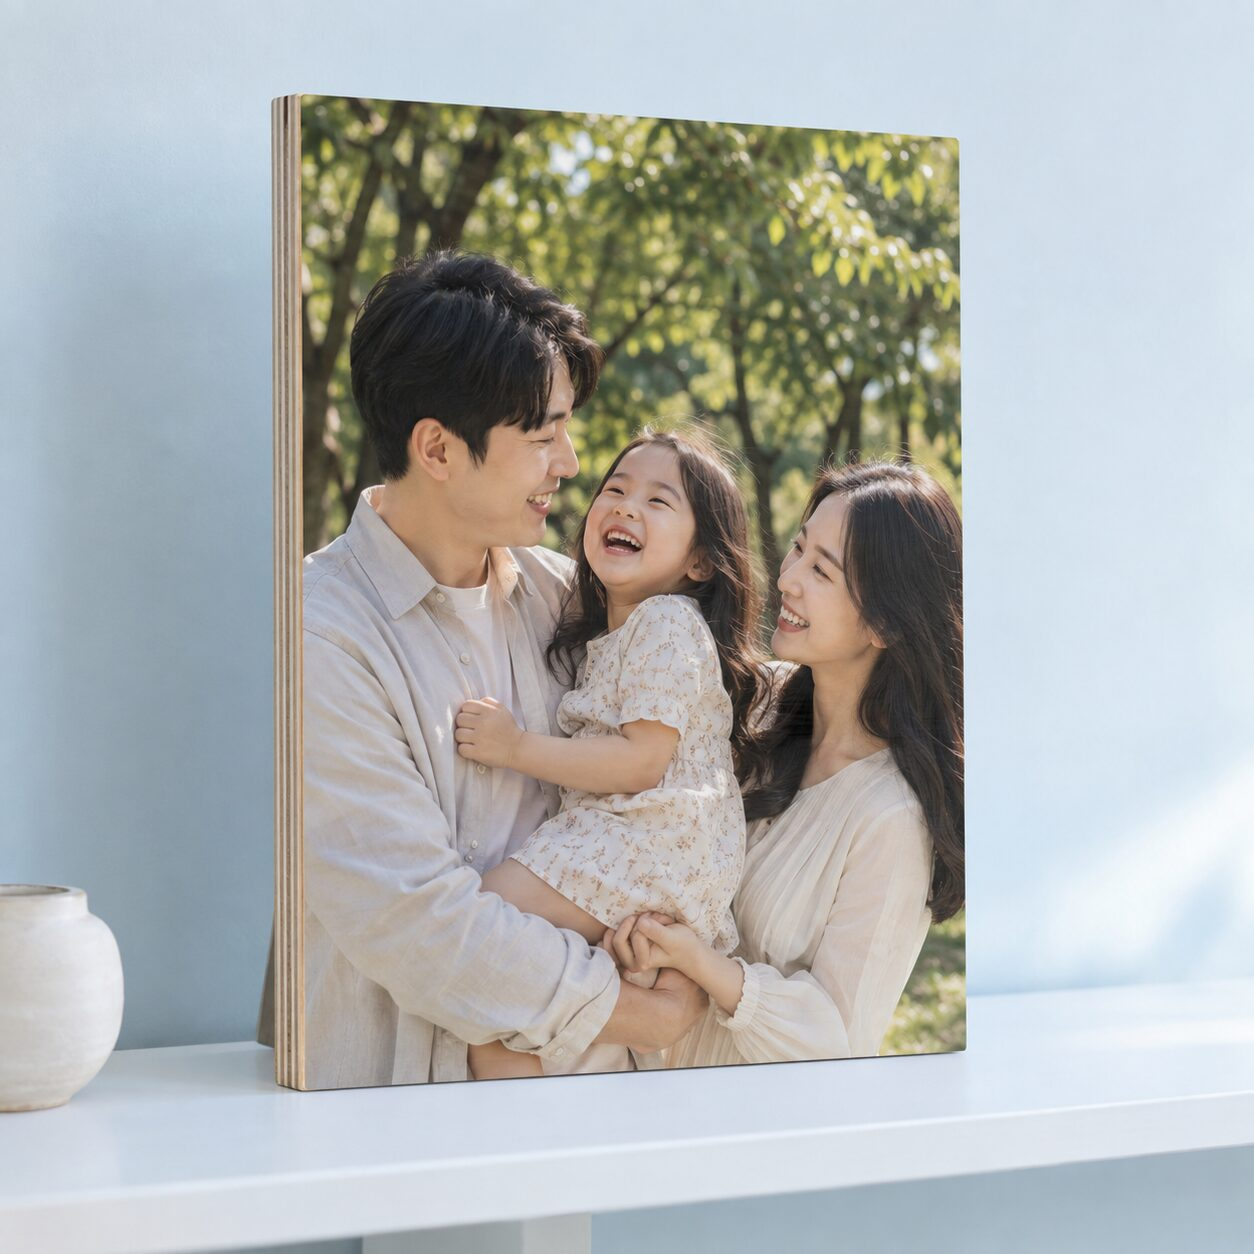
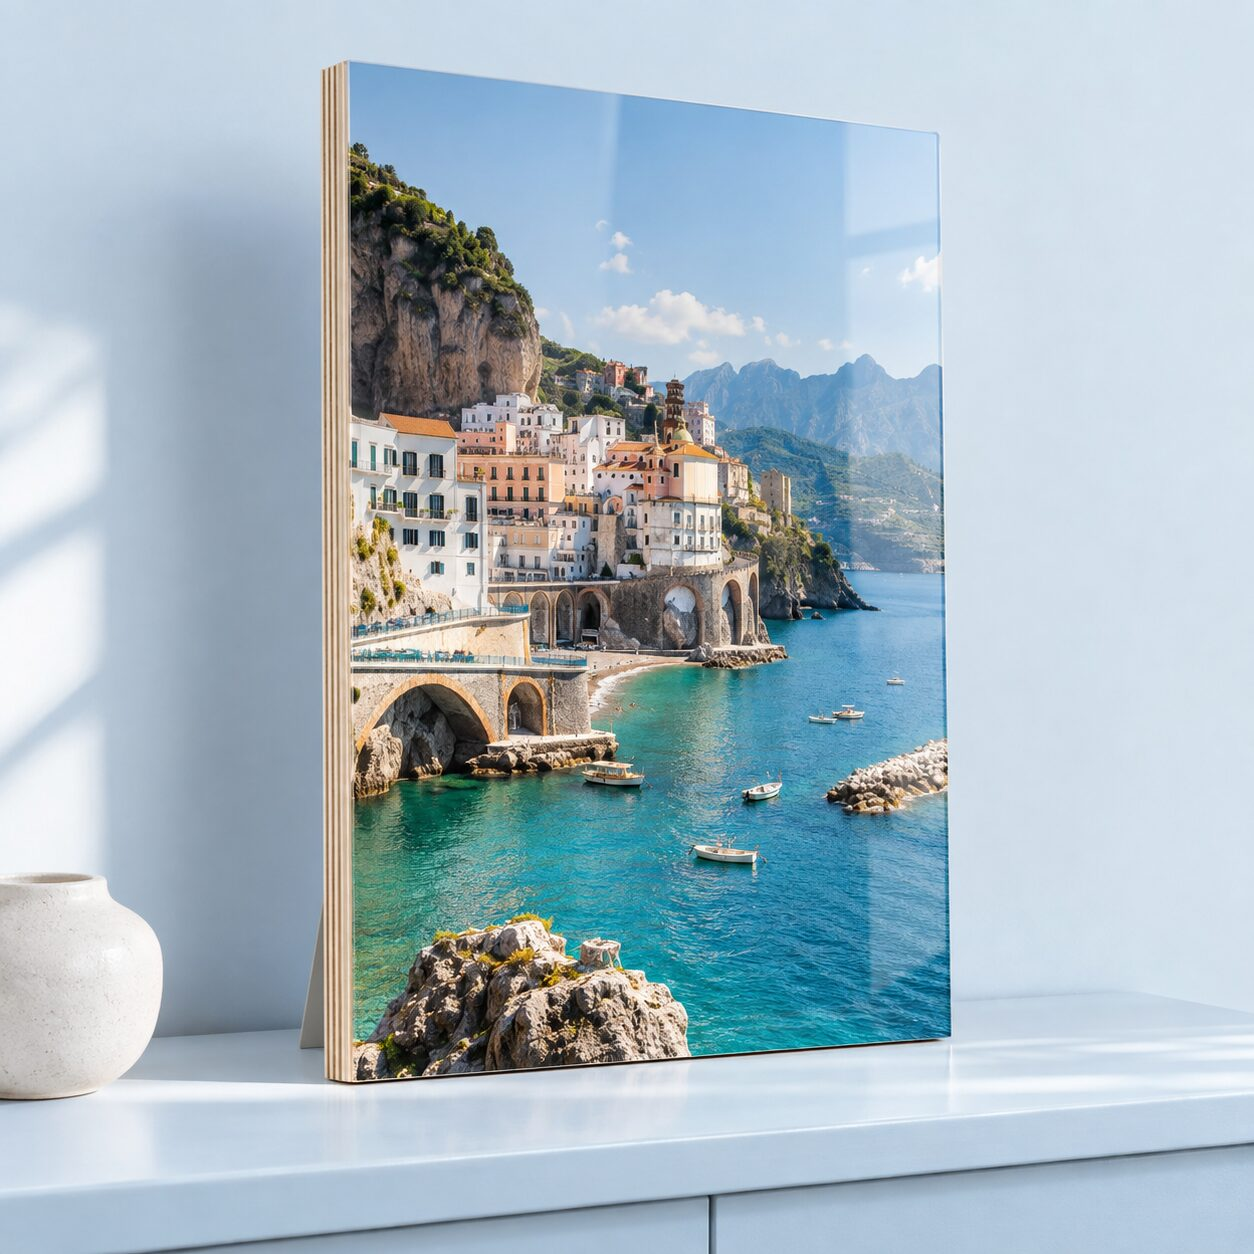
홈/옵션/액자 페이지 세부 수정 모음
- 소프트/하드커버 뱃지 색을 메인 컬러(보라+블루)로 변경
- 모바일 상품 카드 정렬 수정(오른쪽으로 치우쳐 보이던 것 수정)
- 탁상용 자작나무 유광/무광 사진 한 장씩 자리 교체(가족↔풍경)
- 포토북 옵션 페이지 "다음" 버튼 → "사진 선택하기"로 변경
- 디아섹 아크릴액자: 마감 카드를 누르면 바로 그 마감이 선택된
  옵션 페이지로 이동(하단 "보기" 버튼 삭제)
- 홈 배너 이미지 확대 + 문구 가운데 정렬(이미지와 안 겹치게)

Claude-Session: https://claude.ai/code/session_015ff75CZXsUzDxWnngCjiSU

diff --git a/app/frames/page.tsx b/app/frames/page.tsx
@@ -146,33 +146,31 @@ export default function FramesPage() {
             <Reveal
               key={group.finishLabel}
               delay={(i % 3) * 80}
-              className="overflow-hidden rounded-xl border border-[var(--color-hairline)] bg-white"
+              className="overflow-hidden rounded-xl border border-[var(--color-hairline)] bg-white transition hover:-translate-y-0.5 hover:border-[var(--color-sky)] hover:shadow-[0_10px_24px_-12px_rgba(45,55,72,0.25)]"
             >
-              <GroupPhotoSlider images={group.images} />
-              <div className="p-6">
-                <p className="font-medium">
-                  {group.finishLabel}
-                  {group.mount === "wall" && (
-                    <span className="ml-2 text-xs text-[var(--color-charcoal)]/50">벽걸이</span>
-                  )}
-                </p>
-                <p className="mt-1 break-keep text-sm text-[var(--color-charcoal)]/70">
-                  {group.sizeCount > 1
-                    ? `${group.minPrice.toLocaleString()}원 ~ ${group.maxPrice.toLocaleString()}원`
-                    : `${group.minPrice.toLocaleString()}원`}
-                </p>
-              </div>
+              <Link
+                href={`/options?product=${encodeURIComponent(
+                  "디아섹 아크릴액자"
+                )}&finish=${encodeURIComponent(group.finishLabel)}`}
+                className="block focus-visible:outline focus-visible:outline-2 focus-visible:outline-offset-2 focus-visible:outline-[var(--color-sky)]"
+              >
+                <GroupPhotoSlider images={group.images} />
+                <div className="p-6">
+                  <p className="font-medium">
+                    {group.finishLabel}
+                    {group.mount === "wall" && (
+                      <span className="ml-2 text-xs text-[var(--color-charcoal)]/50">벽걸이</span>
+                    )}
+                  </p>
+                  <p className="mt-1 break-keep text-sm text-[var(--color-charcoal)]/70">
+                    {group.sizeCount > 1
+                      ? `${group.minPrice.toLocaleString()}원 ~ ${group.maxPrice.toLocaleString()}원`
+                      : `${group.minPrice.toLocaleString()}원`}
+                  </p>
+                </div>
+              </Link>
             </Reveal>
           ))}
-        </div>
-
-        <div className="mt-8">
-          <Link
-            href={`/options?product=${encodeURIComponent("디아섹 아크릴액자")}`}
-            className="inline-block rounded-full bg-[var(--color-charcoal)] px-8 py-4 text-sm font-medium text-white transition hover:opacity-90 focus-visible:outline focus-visible:outline-2 focus-visible:outline-offset-2 focus-visible:outline-[var(--color-charcoal)]"
-          >
-            디아섹 아크릴액자 보기
-          </Link>
         </div>
       </section>
 

diff --git a/app/options/page.tsx b/app/options/page.tsx
@@ -283,7 +283,7 @@ function PhotobookOptions() {
         )}&size=${size}&quantity=${quantity}&unitPrice=${price.total}&cover=${cover}&coverCoating=${coverCoating}&innerPaper=${innerPaper}&pages=${pages}`}
         className="mt-12 block w-full rounded-full bg-[linear-gradient(135deg,var(--color-brand-purple),var(--color-sky))] px-8 py-4 text-center text-sm font-medium text-white transition hover:opacity-90 sm:inline-block sm:w-auto"
       >
-        다음
+        사진 선택하기
       </Link>
     </section>
   );
@@ -292,12 +292,23 @@ function PhotobookOptions() {
 function OtherProductOptions({ productName }: { productName: ProductName }) {
   const config = productConfig[productName];
   const isDiasec = productName === DIASEC_PRODUCT_NAME;
+  const searchParams = useSearchParams();
 
   // 디아섹 아크릴액자는 사이즈가 16개나 돼서 한 화면에 다 보여주면 복잡해요.
   // "거치방식/재질"(3개) → "마감"(2개) → "사이즈" 순으로 단계를 나눠서 골라요.
-  const [diasecGroupKey, setDiasecGroupKey] = useState(diasecGroups[0].key);
+  // /frames에서 특정 마감 카드를 눌러서 들어온 경우, finish 쿼리로 그 마감이
+  // 바로 선택된 상태로 열려요.
+  const finishParam = isDiasec ? searchParams.get("finish") : null;
+  const groupFromFinish = finishParam
+    ? diasecGroups.find((g) => g.finishLabels.includes(finishParam))
+    : undefined;
+  const [diasecGroupKey, setDiasecGroupKey] = useState(
+    groupFromFinish?.key ?? diasecGroups[0].key
+  );
   const diasecGroup = diasecGroups.find((g) => g.key === diasecGroupKey) ?? diasecGroups[0];
-  const [diasecFinishLabel, setDiasecFinishLabel] = useState(diasecGroup.finishLabels[0]);
+  const [diasecFinishLabel, setDiasecFinishLabel] = useState(
+    (groupFromFinish && finishParam) || diasecGroup.finishLabels[0]
+  );
   const diasecSizesForFinish = diasecFrameSizes.filter(
     (s) => s.finishLabel === diasecFinishLabel
   );

diff --git a/app/page.tsx b/app/page.tsx
@@ -65,6 +65,7 @@ const productGridItems: ProductGridItem[] = [
     priceFrom: photobookMinPriceByCover[cover.id],
     href: `/options?product=${encodeURIComponent("포토북")}&cover=${cover.id}`,
     badge: photobookCoverBadgeEn[cover.id],
+    badgeClassName: "bg-[linear-gradient(135deg,var(--color-brand-purple),var(--color-sky))]",
   })),
   {
     id: "frame",
@@ -198,15 +199,15 @@ export default function Home() {
               href="/options?product=포토북"
               className="relative block overflow-hidden rounded-2xl focus-visible:outline focus-visible:outline-2 focus-visible:outline-offset-2 focus-visible:outline-[var(--color-sky)]"
             >
-              <div className="aspect-[4/3] w-full sm:aspect-[21/6]">
+              <div className="aspect-[4/3] w-full overflow-hidden sm:aspect-[21/9]">
                 <img
                   src={promoBanner.image}
                   alt={promoBanner.alt}
-                  className="h-full w-full object-cover"
+                  className="h-full w-full scale-125 object-cover sm:scale-110"
                 />
               </div>
-              <div className="absolute inset-0 bg-gradient-to-r from-black/55 via-black/15 to-transparent" />
-              <div className="absolute inset-0 flex flex-col justify-center px-6 sm:px-10">
+              <div className="absolute inset-0 bg-black/40" />
+              <div className="absolute inset-0 flex flex-col items-center justify-start px-6 pt-8 text-center sm:justify-center sm:pt-0">
                 <h1 className="font-banner break-keep text-3xl leading-tight text-white sm:text-5xl">
                   {promoBanner.titleLines[0]}
                   <br />

diff --git a/components/ProductGrid.tsx b/components/ProductGrid.tsx
@@ -19,6 +19,8 @@ export type ProductGridItem = {
   href: string;
   // 이미지 위 오른쪽 아래에 작게 붙는 뱃지(예: "NEW", "Soft cover")
   badge?: string;
+  // 뱃지 배경색을 기본 검정 대신 다르게 쓰고 싶을 때(예: 메인 컬러 그라데이션)
+  badgeClassName?: string;
   // 상품명 옆에 붙는 짧은 태그
   tag?: string;
 };
@@ -48,7 +50,11 @@ function ProductCard({ item }: { item: ProductGridItem }) {
           </div>
         )}
         {item.badge && (
-          <span className="absolute bottom-0 right-0 bg-black/70 px-2 py-1 text-[10px] font-medium text-white">
+          <span
+            className={`absolute bottom-0 right-0 px-2 py-1 text-[10px] font-medium text-white ${
+              item.badgeClassName ?? "bg-black/70"
+            }`}
+          >
             {item.badge}
           </span>
         )}
@@ -115,7 +121,7 @@ export default function ProductGrid({
 
               <div className="mt-4 flex gap-4 overflow-x-auto pb-2 snap-x snap-mandatory [-ms-overflow-style:none] [scrollbar-width:none] [&::-webkit-scrollbar]:hidden">
                 {categoryItems.map((item, i) => (
-                  <Reveal key={item.id} delay={(i % 4) * 60} className="w-[46%] shrink-0 sm:w-[calc((100%-3rem)/4)]">
+                  <Reveal key={item.id} delay={(i % 4) * 60} className="w-[calc((100%-1rem)/2)] shrink-0 sm:w-[calc((100%-3rem)/4)]">
                     <ProductCard item={item} />
                   </Reveal>
                 ))}
